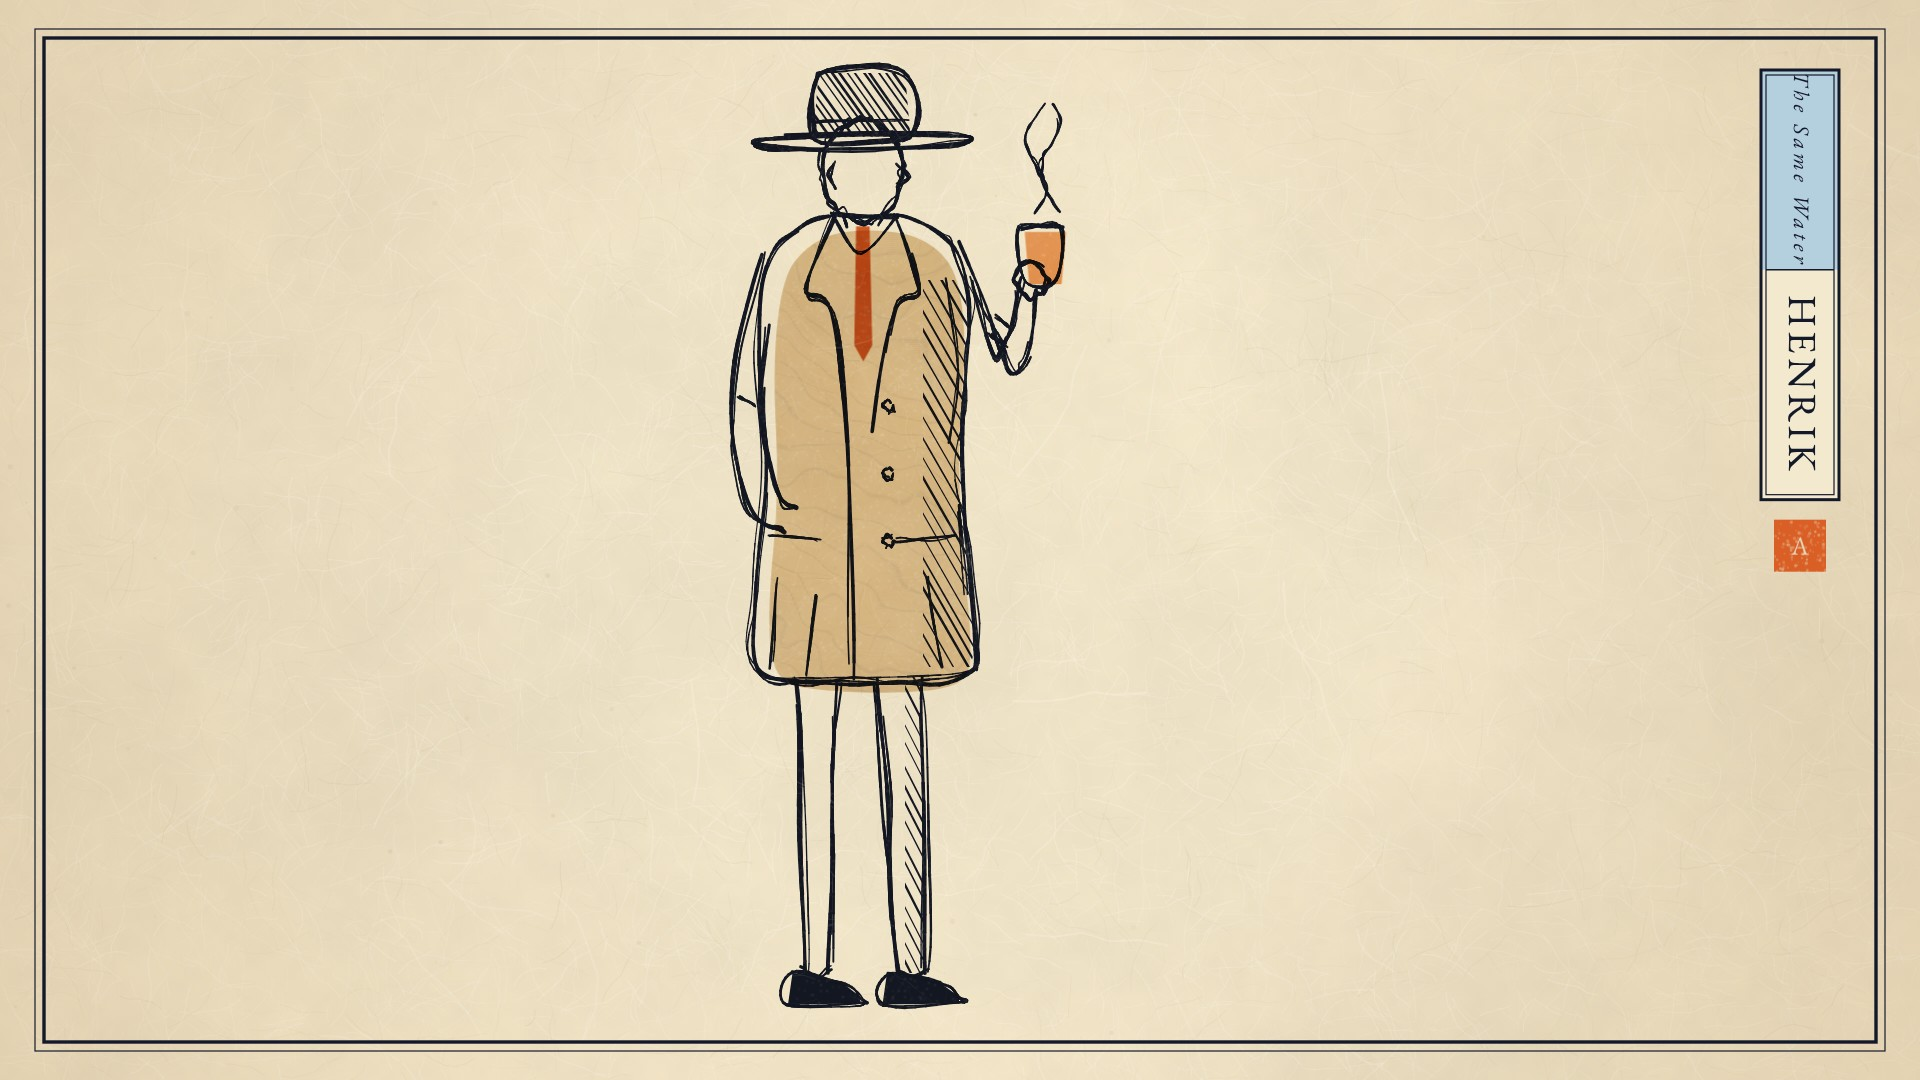
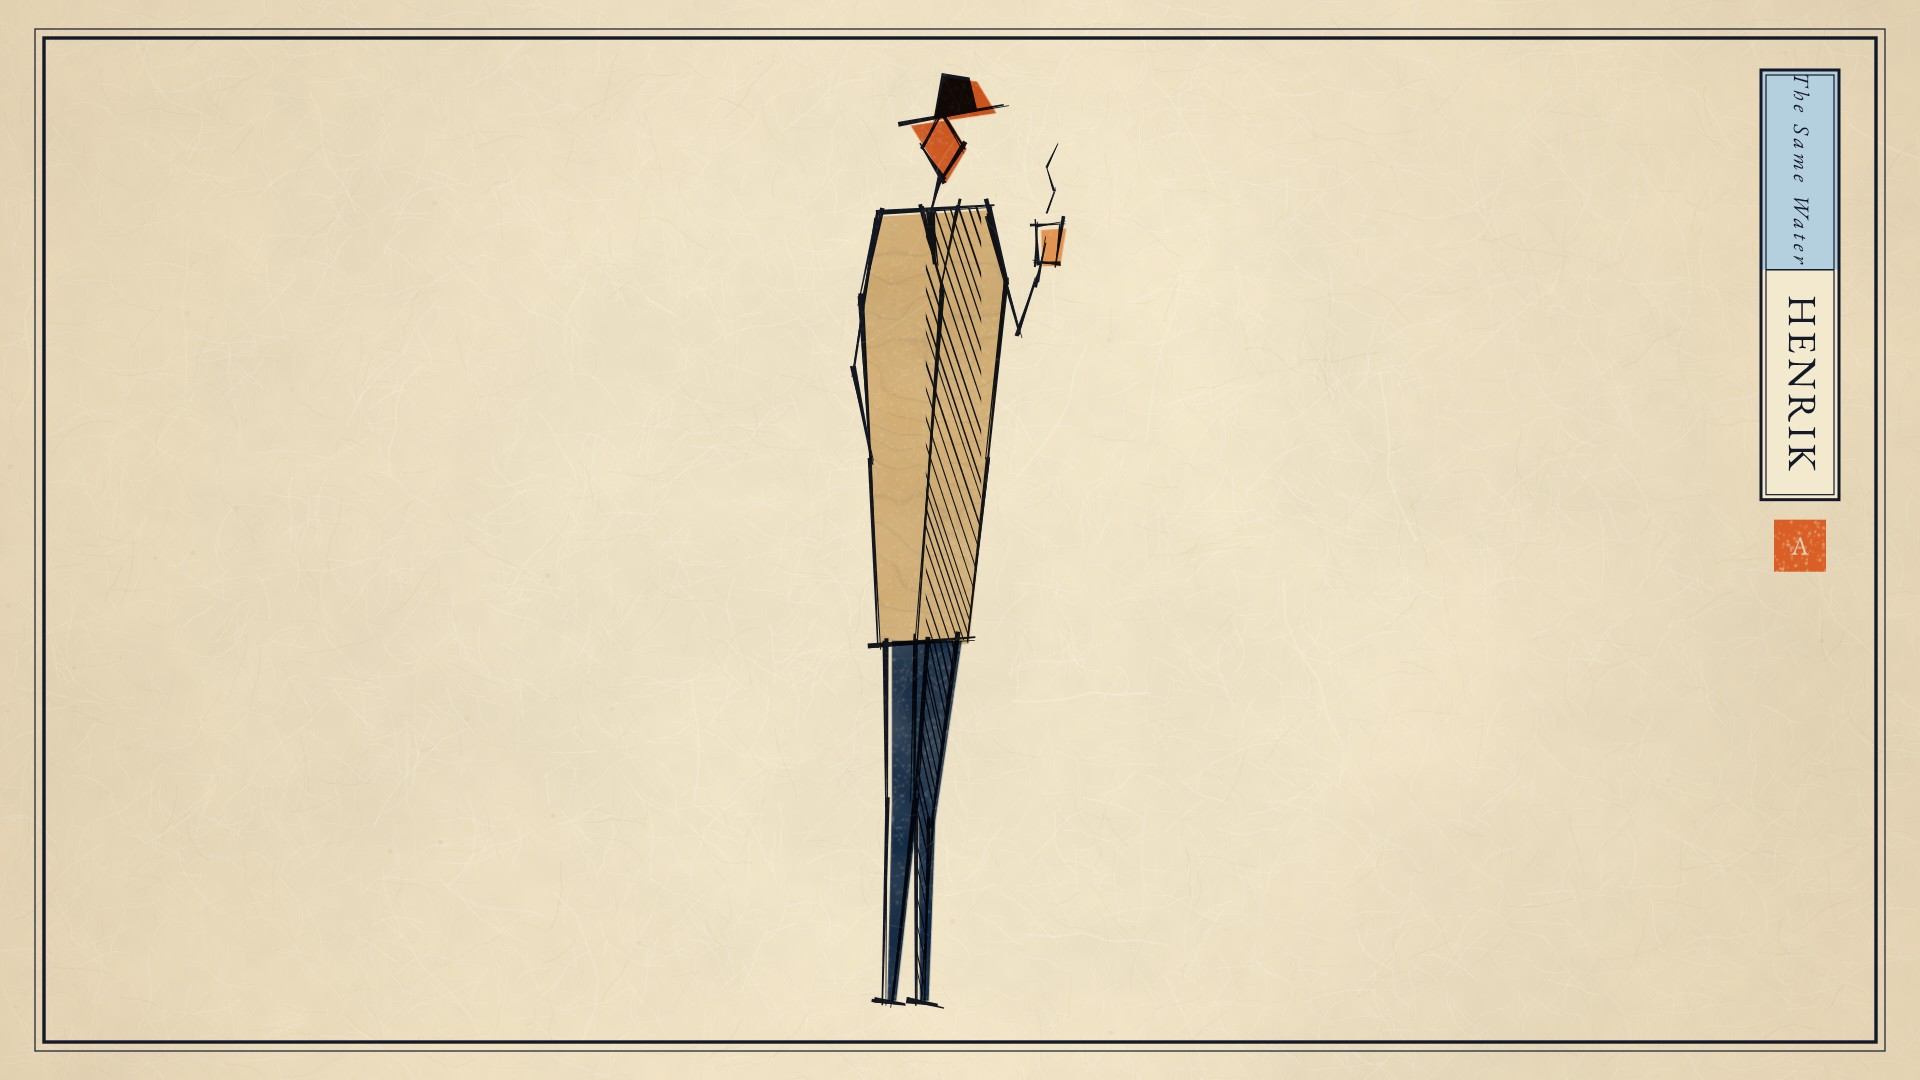
Henrik in the angular reference: straight strokes, colour by zone
Claude-Session: https://claude.ai/code/session_01HVgDQT8ojXg5SvENbDJY1F

Changed region(s): [[0.375, 0.0611, 0.5625, 0.9472]]

diff --git a/_film/henrik/ukiyoe/frames.js b/_film/henrik/ukiyoe/frames.js
@@ -181,6 +181,61 @@ function henrikLine(x, y, s, o = {}) {
   hatch(crown, ...q(-.06, -1.03), ...q(.06, -.958), { gap: s * .007, ang: .95, w: s * .0024, seed: sd + 5 }); fine([[-.05, -.975], [.055, -.977]], 39);
 }
 
+
+// —— angular sketch figure (the owner's second reference): straight strokes only, no curves or circles.
+// Colour by zone: one for the head, one for the body, one for the legs ——
+function sline(a, b, { w = 2.4, jit = 1.5, over = 6, seed = 1, passes = 2 } = {}) { // a quick straight pen stroke that overshoots its ends
+  const x = X.key; x.strokeStyle = P.sumi; x.lineCap = 'butt';
+  for (let k = 0; k < passes; k++) { const r = mulberry(Math.floor(seed * 1000) + k * 31), J = () => (r() - .5) * 2 * jit * (1 + k);
+    const dx = b[0] - a[0], dy = b[1] - a[1], L = Math.hypot(dx, dy) || 1, ux = dx / L, uy = dy / L, o0 = over * (r() * .8 + .2) * (k ? .5 : 1), o1 = over * (r() * .8 + .2);
+    const p0 = [a[0] - ux * o0 + J(), a[1] - uy * o0 + J()], p1 = [b[0] + ux * o1 + J(), b[1] + uy * o1 + J()];
+    // pressure: heavy at the start, thinning out, drawn as a tapered quad
+    const w0 = w * (k ? .55 : 1) * (.8 + r() * .5), w1 = w0 * .35, nx = -uy, ny = ux;
+    x.fillStyle = P.sumi; x.beginPath(); x.moveTo(p0[0] + nx * w0 / 2, p0[1] + ny * w0 / 2); x.lineTo(p1[0] + nx * w1 / 2, p1[1] + ny * w1 / 2); x.lineTo(p1[0] - nx * w1 / 2, p1[1] - ny * w1 / 2); x.lineTo(p0[0] - nx * w0 / 2, p0[1] - ny * w0 / 2); x.closePath(); x.fill(); } }
+function spoly(pts, opt = {}, closed = false) { for (let i = 0; i < pts.length - (closed ? 0 : 1); i++) sline(pts[i], pts[(i + 1) % pts.length], { ...opt, seed: (opt.seed || 1) + i * 1.37 }); }
+function shatch(region, { gap = 6, ang = 1.2, w = 1.6, seed = 1, x0, x1, y0, y1 } = {}) { // straight, quick, dense hatching
+  const x = X.key; x.save(); x.beginPath(); poly(x, region); x.clip();
+  const xs = region.map(p => p[0]), ys = region.map(p => p[1]), a0 = x0 ?? Math.min(...xs), a1 = x1 ?? Math.max(...xs), b0 = y0 ?? Math.min(...ys), b1 = y1 ?? Math.max(...ys);
+  x.beginPath(); x.rect(a0, b0, a1 - a0, b1 - b0); x.clip(); const r = mulberry(Math.floor(seed * 777));
+  const dx = Math.cos(ang), dy = Math.sin(ang), L = Math.hypot(a1 - a0, b1 - b0);
+  for (let t = -L; t < L; t += gap * (.7 + r() * .6)) { const cx = (a0 + a1) / 2 - t * dy, cy = (b0 + b1) / 2 + t * dx; sline([cx - dx * L, cy - dy * L], [cx + dx * L, cy + dy * L], { w, jit: 1, over: 0, seed: t + seed, passes: 1 }); }
+  x.restore(); }
+function flat(block, pts, col, off = [3, 2]) { knock(['blue', 'pale', 'red', 'gold'].filter(k => k !== block), xx => poly(xx, pts)); X[block].fillStyle = col; X[block].beginPath(); poly(X[block], pts.map(([a, b]) => [a + off[0], b + off[1]])); X[block].fill(); }
+function henrikSharp(x, y, s, o = {}) {
+  const d = o.dir || 1, lean = o.lean ?? .045, q = (u, v) => [x + (u * .82 - lean * v) * s * d, y + v * s], Q = a => a.map(([u, v]) => q(u, v)), sd = x * .11 + y * .05;
+  const W = s * .0048, opt = k => ({ w: W, jit: s * .0018, over: s * .008, seed: sd + k * 3.1 });
+  const C = { head: P.orange, body: mix(P.goldL, P.paper, .2), legs: P.ind }; // three zones, three colours
+  // zones of flat colour, a little off the line
+  const head = Q([[.004, -.985], [.032, -.95], [.006, -.912], [-.022, -.948]]);
+  const hat = Q([[-.045, -.976], [.07, -.99], [.042, -1.025], [-.002, -1.03], [-.015, -.98]]);
+  const coat = Q([[-.075, -.875], [.07, -.882], [.1, -.8], [.085, -.6], [.07, -.4], [-.05, -.395], [-.075, -.6], [-.095, -.78]]);
+  const legs = Q([[-.04, -.4], [.055, -.4], [.03, -.2], [.032, -.0], [.02, -.0], [.006, -.22], [-.012, -.0], [-.024, -.0], [-.03, -.22]]);
+  flat('red', [...head, ...hat], C.head); flat('gold', coat, C.body); flat('blue', legs, C.legs);
+  // head: a kite, the hat a dark wedge over a slanted brim
+  spoly(head, opt(1), true);
+  X.key.save(); X.key.fillStyle = P.sumi; X.key.beginPath(); poly(X.key, Q([[-.008, -.98], [.05, -.99], [.038, -1.025], [.0, -1.03]])); X.key.fill(); X.key.restore();
+  sline(...Q([[-.055, -.974], [.08, -.993]]), { ...opt(2), w: W * 1.3 });
+  sline(...Q([[.002, -.912], [-.004, -.882]]), opt(3)); // neck
+  // coat: long, narrowing, every edge a separate stroke; the front edge and lapel as straight cuts
+  spoly(Q([[-.075, -.875], [.07, -.882]]), opt(4)); spoly(Q([[.07, -.882], [.1, -.8], [.085, -.6], [.07, -.4]]), opt(5)); spoly(Q([[-.075, -.875], [-.095, -.78], [-.075, -.6], [-.05, -.395]]), opt(6));
+  sline(...Q([[-.055, -.395], [.075, -.402]]), opt(7));
+  spoly(Q([[-.02, -.88], [.012, -.79], [.0, -.4]]), { ...opt(8), w: W * .8 }); spoly(Q([[.03, -.882], [.012, -.79]]), { ...opt(9), w: W * .7 });
+  sline(...Q([[-.005, -.875], [.002, -.82]]), { ...opt(10), w: W * 1.6 }); // the tie, a single heavy stroke
+  // shadow: dense straight hatching down the far side of the coat
+  shatch(coat, { gap: s * .008, ang: 1.25, w: s * .0022, seed: sd + 1, x0: q(.035, 0)[0], x1: q(.11, 0)[0] });
+  // arm bent up to the cup: three straight strokes and a hand tick
+  spoly(Q([[.07, -.87], [.12, -.74], [.14, -.8]]), opt(11)); spoly(Q([[.14, -.8], [.15, -.84]]), { ...opt(12), w: W * .7 });
+  const cup = Q([[.138, -.86], [.172, -.862], [.166, -.82], [.142, -.82]]); flat('red', cup, P.orangeL); spoly(cup, { ...opt(13), w: W * .7 }, true);
+  spoly(Q([[.152, -.875], [.16, -.9], [.15, -.925], [.16, -.95]]), { ...opt(14), w: W * .5, over: 2 }); // steam, as zigzag
+  // back arm hanging, into the pocket
+  spoly(Q([[-.08, -.86], [-.1, -.7], [-.07, -.6]]), opt(15));
+  // legs: long strokes tapering to points, one leg darkened with hatching
+  spoly(Q([[-.04, -.4], [-.03, -.22], [-.022, .0]]), opt(16)); spoly(Q([[.0, -.4], [.006, -.22], [-.01, .0]]), opt(17));
+  spoly(Q([[.015, -.4], [.008, -.22], [.022, .0]]), opt(18)); spoly(Q([[.055, -.4], [.03, -.2], [.032, .0]]), opt(19));
+  shatch(Q([[.015, -.4], [.055, -.4], [.03, -.2], [.032, .0], [.022, .0], [.008, -.22]]), { gap: s * .006, ang: 1.35, w: s * .002, seed: sd + 2 });
+  sline(...Q([[-.03, .0], [.0, .004]]), { ...opt(20), w: W * 1.4 }); sline(...Q([[.015, .002], [.05, .006]]), { ...opt(21), w: W * 1.4 }); // feet as two flat strokes
+}
+
 // —— the cast: three people built from garment pieces, drawn in the sketch sheet's hand ——
 // local units: u right, v up (feet at 0, crown at -1); dir 1 faces right
 function person(x, y, s, who, o = {}) {
@@ -436,7 +491,7 @@ if (F === 4) { // the cast, on one sheet, like a page of the sketchbook
 }
 if (F === 5) { // one character, finished: Henrik in line
   Object.values(X).forEach(clipFrame);
-  henrikLine(860, 1000, 900);
+  henrikSharp(900, 1000, 900);
   compose(x => { x.fillStyle = P.sumi; x.font = 'italic 400 30px "EB Garamond"'; x.textAlign = 'center'; const e = slip(x, 1800, 70, 'HENRIK', 'The Same Water'); seal(x, 'A', 1800, e + 46, 52); });
 }
 document.title = 'done';
